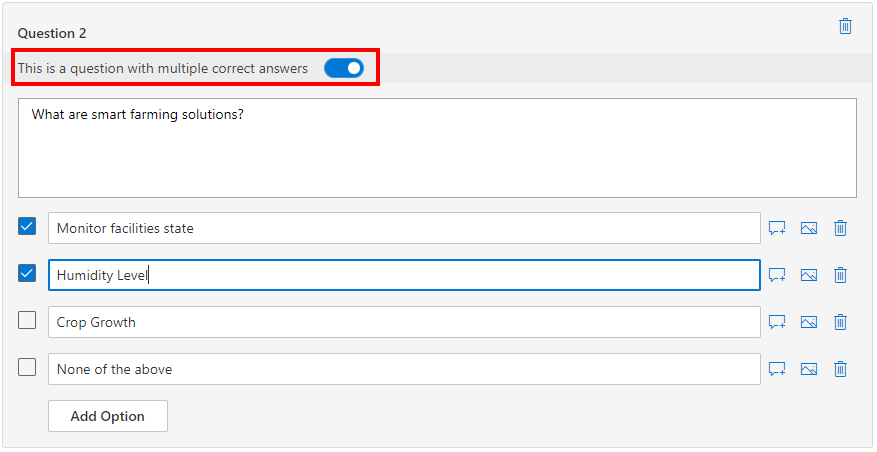
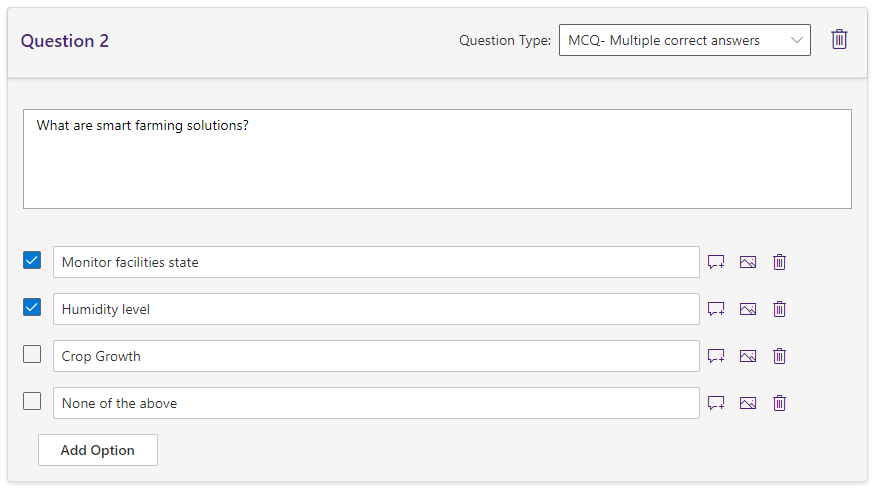
New upload format and new question firmats

diff --git a/microsoft-community-training/content-management/create-content/create-course-category/add-assessments-to-a-course.md b/microsoft-community-training/content-management/create-content/create-course-category/add-assessments-to-a-course.md
@@ -46,9 +46,15 @@ In this article, you will learn about how to add non-graded assessments to a cou
 
 4. Enter details for the **non-graded assessments** on the portal as below:
     * Non-graded Assessments Title – This would be assessment name.
-    * **Multiple correct answers toggle** - Enabling this toggle will allow the Administrator to select multiple correct answers to that question - hence making the question multiple-choice multi-correct type.
+    * Question Type dropdown - Select the format that you would like to use for this question. You can select:
+        * MCQ - Single correct answers
+        * MCQ - Multiple correct answers
+        * Fill in the blanks
+        * True and False
 
-        :::image type="content" source="../../../media/Assessment - multi-correct.PNG" alt-text="multicorrect":::
+        :::image type="content" source="../../../media/Assessment - question type.PNG" alt-text="Question type":::
+    >[!Note]
+    >You can not change the question type once you have saved the assessment.
 
     * Question Title – add your question in this field. Check [**sample questions**](#question-types-for-any-assessment) to know more about the types of questions you can create on the portal.
     * Options – add one or more options as possible answers for the question. Check the **radio button/checkbox** to the left of the text field to select the correct answer(s).
@@ -91,10 +97,11 @@ In this article, you will learn about how to add a graded assessment to a course
     :::image type="content" source="../../../media/Assessment - New AssessmentFinalExam.PNG" alt-text="New assessment for graded assessment":::
 
 4. Enter details for the **graded assessment** on the portal as below:
-    * Enter **Graded Assessment Title**. The graded assessment title is the name for the exam displayed to the learners on the web portal and mobile application. For example: *Final Exam*
+    * Enable the **shuffle mode** for the exam questions/answer options if required. This will ensure that learners will always be offered a different version of the assessment so you can be sure that answers cannot be memorized for subsequent attempts or copied from others.
     * Define the **passing percentage** and **number of attempts** a learner can take the exam based on the degree of difficulty.
     * Enable the **Show answers to learner** if you would like to add answer explanation which would be shown to the learner once he/she completes the assessment and are viewing their answers/scores.
-    * Enable the **shuffle mode** for the exam questions if required. This will ensure that learners will always be offered a different version of the assessment so you can be sure that answers cannot be memorized for subsequent attempts or copied from others.
+    * Enter **Graded Assessment Title**. The graded assessment title is the name for the exam displayed to the learners on the web portal and mobile application. For example: *Final Exam*
+
 
         :::image type="content" source="../../../media/Assessment - graded question.PNG" alt-text="graded question details":::
 
@@ -102,6 +109,15 @@ In this article, you will learn about how to add a graded assessment to a course
     > All the questions in the exam carry equal weightage. And **Exam** is always the last segment of the course.
 
 5. Enter details for the **Question 1** on the portal as below:
+    * Question Type dropdown - Select the format that you would like to use for this question. You can select:
+        * MCQ - Single correct answers
+        * MCQ - Multiple correct answers
+        * Fill in the blanks
+        * True and False
+
+        :::image type="content" source="../../../media/Assessment - question type.PNG" alt-text="Question type":::
+    >[!Note]
+    >You can not change the question type once you have saved the assessment.
     * Question Title – add your question in this field. Check [**sample questions**](#question-types-for-any-assessment) to know more about the types of questions you can create on the portal.  
     * Options – add one or more options as possible answers for the question.  Check the **checkbox/radio button** to the left of the text field to select the correct answer.
   
@@ -149,18 +165,27 @@ Before you start doing the bulk upload of questions for a assessment, you need t
     > Do not remove the column headers from the CSV file.
 
 3. Start adding 1 question per row with the following information under each column header:
+
+| Question type | Question Text | Choices | Correct Answer | Answer Explanation | Match Criterion |
+| --- | --- | --- | --- | --- | --- |
+| Single choice | Entire question body | Add as many choices as required | Add the numeric value of the correct option | Add answer explanation for each option separated by semi-colon | Not applicable |
+| Multiple choice | Entire question body | Add as many choices as required | Add the numeric value of the correct option(s) | Add answer explanation for each option separated by semi-colon | Not applicable |
+| Fill blanks | Entire question body with blanks depicted by pipe delimiter | Not applicable | Add correct answers for each blank separated by semi-colon. Separate answers to two blanks via pipe delimiter | Add answer explanation for each option separated by semi-colon | Add the Match type (Contains/Exact Match) for each blank separated by pipe delimiter |
+| True false | Entire question body | Only Choice 1 and choice 2 can be filled | Add "TRUE" or "FALSE" | Not applicable | Not applicable |
+
     * Serial Number – put the sequence number of the question in the list.
-    * Question Type - specify the type of question **"Single choice"** or **"Multiple choice"**
-    * Question Text – put the question text in this field.
+    * Question Type - specify the type of question **"Single choice"** or **"Multiple choice"** or **Fill blanks** or **True false**
+    * Question Text – put the question text in this field. To add blanks, add the delimiter **|**
     * Choice 1 to N – add the choices for the question.
     * Correct Answer – select the correct number among the choices. For e.g. set value to 2 if Choice 2 is the correct answer.
     * Answer explanation - add the explanation for the correct as well as incorrect answers.
+    * Match Criterion - For Fill in the blank type of question, add the Match type (Contains/Exact Match) for each blank
 
         ![CSV file format](../../../media/CSV%20file%20format.png)
 
 4. Rename and save the edited file once you are done creating the question list. When editing the CSV file, please take care of the following things:
     * Do not add **comma (,)** in the question or choices when editing the sample file
-    * Use **semi-colon (;) as delimiter** when adding multiple values for a single option  
+    * Use **semi-colon (;) or pipe(|) as delimiter** when adding multiple values for a single option. Refer to the above step for desired usage.
     * For any cell, do not split the text into multiple lines (i.e. do not use **ALT + Enter**)
 
 > [!NOTE]
@@ -230,42 +255,43 @@ To create a single choice question,
 ### Multi Choice - Multi Correct Question
 
 This type of question can be created by enabling **Multiple correct answers toggle**. This will allow the Administrator to select multiple correct answers to that question - hence making the question multiple-choice multi-correct type.
-    :::image type="content" source="../../../media/Assessment - multi-correct detailed.PNG" alt-text="multiple_correct":::
+
+:::image type="content" source="../../../media/Assessment - multi-correct detailed.PNG" alt-text="multiple correct":::
 
 >[!Note]
-> The change in type of question (between single correct and multi-correct) cannot be done once the assessment is saved as the toggle will disappear from the question box.
+> The change in type of question cannot be done once the assessment is saved as the question type dropdown will disappear from the question box.
 
-### True/False Question  
+### True/False Question
 
-![True/False Question](../../../media/image%28234%29.png)
+:::image type="content" source="../../../media/Assessment - TrueFalse.PNG" alt-text="TrueFalse":::
 
 For this type of question, learners can choose only one amongst the two available options of true and false.
 
 To create a True/False question,
 
 1. Add the question text with image/links in the question title box
-2. Add two answer options as True and False
-3. Select the correct answer option by checking the radio button to the left of the answer text field
+2. Select the correct answer option by checking the radio button to the left of the answer text field
 
 The question will appear like this for the learners –
 
-![True/False Question sample](../../../media/image%28232%29.png)
+:::image type="content" source="../../../media/Assessment - TrueFalse Learner.PNG" alt-text="TrueFalse Learner":::
 
 ### Fill in the Blank Question
 
-![Fill in the Blank Question](../../../media/image%28233%29.png)
+:::image type="content" source="../../../media/Assessment - FillBlank.PNG" alt-text="FillBlank Admin":::
 
 For this type of question, learners can choose only one answer among the available options which fills the blank in the question to complete the phrase.
 
 To create a Fill in the Blank question,
 
-1. Add the question statement leaving a series of underscores to indicate blanks to be filled
-2. Add the answer options with text/image to be filled in the blanks
-3. Select the correct answer option by checking the radio button to the left of the answer text field
+1. Add the question statement along with the blank fields placeholders added using the option **+ Add a blank field**
+2. Select the **match criterion** of blank using the dropdown and add the answer options with text to be filled in the blanks.
+    * **Contains**: The answer from the learner is marked correct if it matches any of the value(s) provided by Admin. Multiple values in answer text can be provide as 'Cat;The cat;cats' etc.
+    * **Exact Match**: This accepts only 1 value and answer evaluation is case-sensitive.
 
 The question will appear like this for the learners –
 
-![Fill in the Blank Question sample](../../../media/image%28236%29.png)
+:::image type="content" source="../../../media/Assessment - FillBlank Learner.PNG" alt-text="Fill Blank Learner":::
 
 ### Chronological Question
 

diff --git a/microsoft-community-training/content-management/create-content/create-course-category/upload-content-to-a-course.md b/microsoft-community-training/content-management/create-content/create-course-category/upload-content-to-a-course.md
@@ -41,13 +41,16 @@ You can manually upload the required content to a course using New Lesson option
 
 3. Select **New Lesson**, to create a new lesson for the course.
 
-    ![New Lesson](../../../media/New%20Lesson.png)
+    :::image type="content" source="../../../media/New Lesson v2.PNG" alt-text="New lesson":::
 
 4. Enter **Lesson Name**. The lesson name is the title of the lesson. For example, *What is Smart Farming*?
 
 5. Add content to the lesson either by uploading content directly to the portal or embedding an external web link.
 
     a. **For uploading content** - Click or tap **Upload** button and choose the content file you want to upload for the lesson. The format of the content must be Video, Audio, PDF, EPUB, Word, Excel, PowerPoint or HTML.
+
+    You can also **upload a SCORM file** in .zip format. After attaching the zip file for the SCORM content, please mark the check box as well to ensure successful validation of the file.
+    :::image type="content" source="../../../media/New Lesson SCORM.PNG" alt-text="SCORM upload":::
 
     > [!NOTE]
     >> **Supported Lesson Content Formats:**
@@ -57,6 +60,8 @@ You can manually upload the required content to a course using New Lesson option
     >> **Audio Lessons**: MP3 & OGG
     >>
     >> **Other formats**: PDF, PPT, PPTX, DOCX, EPUB, HTML, External Links
+    >>
+    >>**SCORM content**: Content compliant to SCORM v1.2 are supported on the platform
     >>
     > MCT does not have [file size restrictions on upload](../../../frequently-asked-questions/faqs-course.md) for most formats but the [App Service plan](https://azure.microsoft.com/pricing/details/app-service/windows/) for your instance might restrict total upload size (multiple uploads across different devices for the same instance) at a time. For App Service plan:
     >
@@ -87,21 +92,24 @@ You can manually upload the required content to a course using New Lesson option
 
 6. Enter tags in the **Add Tags** field to help learners search for the content using relevant keywords. You can add one or more tags for each lesson. For example – *Smart Farming, Internet of Things, Precision Farming*
 
-7. Click or tap **Save**  icon the to upload the content for the lesson.
+7. If you have uploaded content from computer, the files would be visible in the **Attached files** section. You can click on **Replace file** if you wish to upload another file.
+:::image type="content" source="../../../media/New Lesson replace file.PNG" alt-text="replace uploaded content":::
+
+8. Click or tap **Save**  icon the to upload the content for the lesson.
 
     ![Upload progress](../../../media/Upload%20progress.png)
 
     > [!IMPORTANT]
     > Click or tap the **Save** button to complete the add lesson operation. If you perform any other activity before clicking on the Save button, then all your progress will be lost.
 
-8. For video content, after upload is completed, the system will start the encoding process to create multiple copies to optimize streaming on different devices and network quality. You can check the encoding status on the course page as shown below.
+9. For video content, after upload is completed, the system will start the encoding process to create multiple copies to optimize streaming on different devices and network quality. You can check the encoding status on the course page as shown below.
 
     ![Encoding status on the course page](../../../media/image%2849%29.png)
 
     > [!NOTE]
     > Depending upon the video size, it can take upto 20 minutes to complete the encoding process.
 
-9. Repeat **Step 2 to Step 6 to continue to add more lessons** for the course.
+10. Repeat **Step 2 to Step 6 to continue to add more lessons** for the course.
 
 **Next>** [**Add practice quiz and exams**](add-assessments-to-a-course.md) to the course or [**publish the course**](publishing-course.md) for the learners
 
